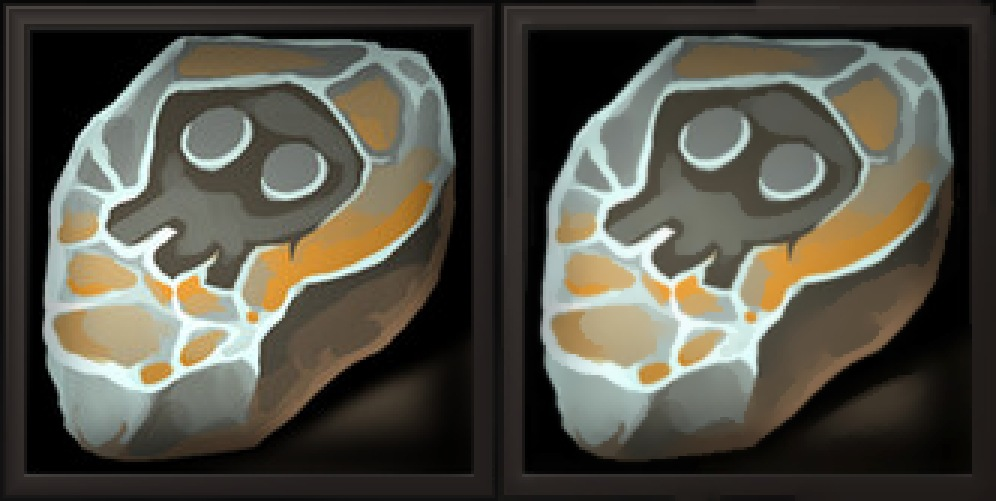
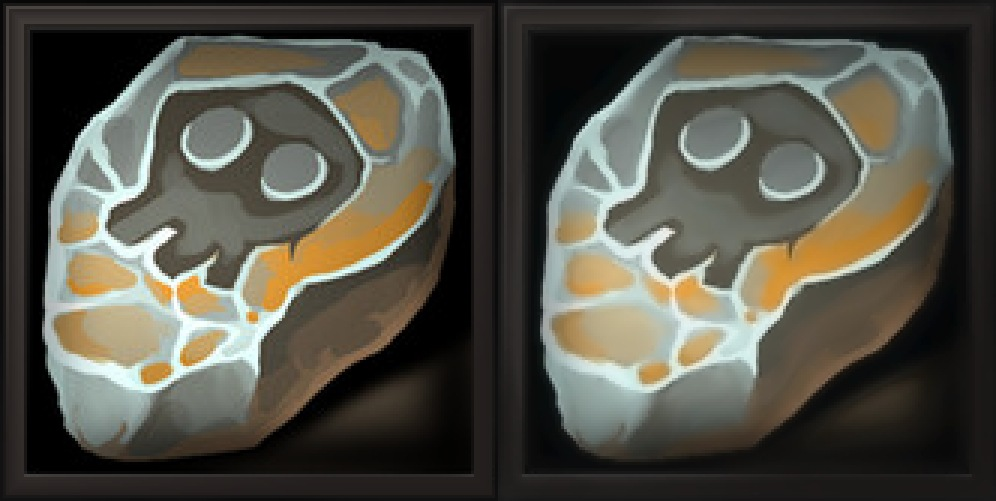
clean_icon: switch to frequency-band coring (no terracing/notches on edges)

diff --git a/tools/README.md b/tools/README.md
@@ -102,32 +102,36 @@ python3 tools/clean_icon.py in.png -o out.png --chroma 1.0 --luma 0.8
 (грубое квантование JPEG); **цветной шум по хроме** (4:2:0); **звон у светлых
 контуров**.
 
-Как чистится (`clean_fill`):
+Как чистится (`clean_fill`) — **частотный способ**:
 
-1. **Mean shift по LAB** — каждый пиксель тянется к моде своего окружения:
-   шум на заливке «схлопывается» в один тон, кромка остаётся резкой.
-2. **Защитная зона `guard_mask()`** — результат подмешивается только там, где
-   нет рисунка. Детектор двойной: `amp` — амплитуда мелкой структуры по сырой
-   яркости (линия/кромка 25+, шум 3..10), `ramp` — то же по сглаженной яркости
-   (шум гаснет до ±3, а мягкий переход виден). Деталь = сработал любой критерий.
-3. **`soften_edges()`** — лёгкое сглаживание ТОЛЬКО в полосе кромок, чтобы
-   после чистки контур не выглядел «иглой». Заливки и внутренние детали не
-   затрагиваются. Сила — `--soft-edges 0..1` (0 — кромки жёсткие, 1 — мягкие).
+1. Яркость раскладывается на полосы σ = 1, 3, 7 px.
+2. В каждой полосе гасится только мелкая по амплитуде часть (`_shrink`,
+   мягкий порог). «Сыпь» и блочность JPEG — это ±3..8, они уходят; кромки,
+   скругления и градиенты дают десятки — они остаются ровно как были.
+3. Хрома чистится отдельно: медиана 5×5 + сглаживание.
 
-Режимы: **`soft` (по умолчанию)**, `normal`, `strong`, `max`. Крутилки:
-`--protect 0..3` (ширина защитной зоны), `--iters 1..4` (проходы),
-`--soft-edges 0..1` (мягкость кромок).
+Почему не mean shift / медиана, хотя они тоже убирают шум: они схлопывают
+заливку в «плато», и на скруглениях появляются ступеньки, а на гранях —
+«надрезы» (видно на нижней грани в старых версиях). Частотный способ форму
+не меняет вообще: резкость кромок остаётся 61.2 → 62.6, звон падает
+3.12 → 2.51.
 
-| метрика | до | soft | soft с `--soft-edges 0` |
-|---|---|---|---|
-| шум на заливках | 1.29 | **0.54** | 0.68 |
-| цветной шум a/b | 0.31 | 0.19 | 0.17 |
-| резкость контуров | 61.2 | 58.2 (мягче) | 65.2 |
-| звон у контуров | 3.12 | 2.92 | 2.72 |
+Режимы: `soft` (мягче), **`normal` (по умолчанию)**, `strong`, `max`.
+`--soft-edges 0..1` — дополнительное смягчение кромок (0 — как есть).
+Старый режим на mean shift (`clean_fill_ms`) остался для сравнения:
+включается через `--protect N` / `--iters N`.
+
+| метрика | до | normal |
+|---|---|---|
+| шум в глубине заливок | 0.70 | **0.26** |
+| шум на заливках (в среднем) | 1.29 | **0.67** |
+| цветной шум a/b | 0.31 | 0.24 |
+| звон у контуров | 3.12 | **2.51** |
+| резкость контуров | 61.2 | 62.6 (не изменена) |
 
 Сравнения: `samples/icon_clean_compare.jpg` (вся иконка) и
-`samples/icon_clean_zoom.jpg` (заливка между глазами, ×13, с силой смягчения
-0 / 0.35 / 0.6).
+`samples/icon_clean_zoom.jpg` (нижняя грань, ×11 — то место, где раньше
+появлялись «надрезы»).
 
 ## Нарезка иконок с обводкой
 
